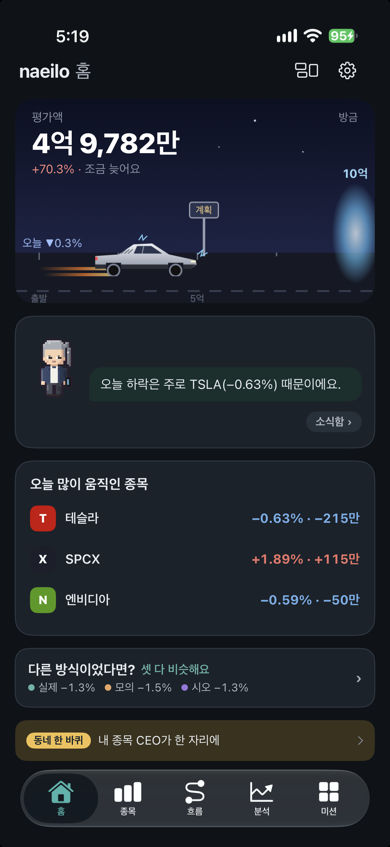
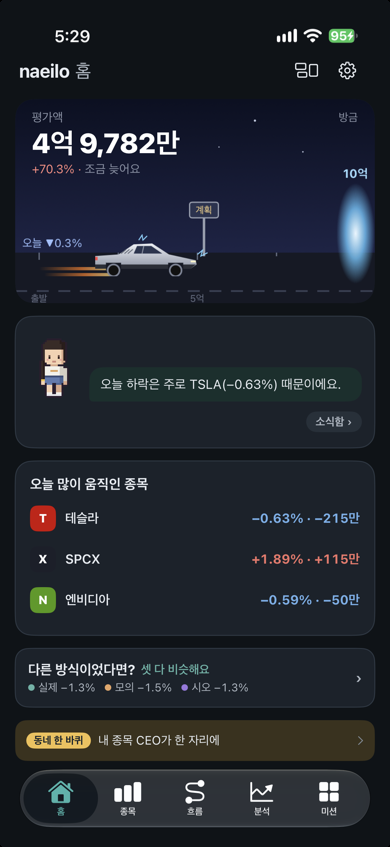
소개 페이지: 홈 스크린샷을 수아가 말하는 화면으로 (#327)
Claude-Session: https://claude.ai/code/session_01Qiv9He1TXkPcaZsQfLfxrY

Changed region(s): [[0.8615, 0.2149, 0.9846, 0.3377], [0.0923, 0.3991, 0.1846, 0.4911], [0.1231, 0.0307, 0.2462, 0.0614]]

diff --git a/index.html b/index.html
@@ -97,7 +97,7 @@
     <h2>앱을 열면, 인물이 먼저 말을 걸어요</h2>
     <p class="muted">세리·시오·선배·이르·수아가 오늘 숫자를 전해요 · 매매 추천 아님</p>
     <div class="rail">
-      <figure><div class="phone"><picture><source srcset="img/app-home-dark.png?v=7" media="(prefers-color-scheme: dark)"><img src="img/app-home.png?v=7" alt="naeilo 앱 홈 화면. 평가액 4억 9,782만, 오늘 하락 이유를 전하는 인물의 한마디와 많이 움직인 종목" loading="lazy"></picture></div><figcaption>홈: 오늘 숫자와 한마디</figcaption></figure>
+      <figure><div class="phone"><picture><source srcset="img/app-home-dark.png?v=8" media="(prefers-color-scheme: dark)"><img src="img/app-home.png?v=8" alt="naeilo 앱 홈 화면. 평가액 4억 9,782만, 오늘 하락 이유를 전하는 인물의 한마디와 많이 움직인 종목" loading="lazy"></picture></div><figcaption>홈: 오늘 숫자와 한마디</figcaption></figure>
       <figure><div class="phone"><picture><source srcset="img/app-stocks-dark.png?v=2" media="(prefers-color-scheme: dark)"><img src="img/app-stocks.png?v=2" alt="종목 화면. 오늘 −149만 원, 1개월 평가액 그래프와 테슬라·엔비디아·SGOV·SPCX 목록" loading="lazy"></picture></div><figcaption>종목: 내 종목을 한눈에</figcaption></figure>
       <figure><div class="phone"><picture><source srcset="img/app-flow-dark.png?v=3" media="(prefers-color-scheme: dark)"><img src="img/app-flow.png?v=3" alt="흐름 화면. 테슬라 일봉 그래프 위에 더블탑·플래그·더블바텀 패턴 이름표와 크고 작은 흐름 띠" loading="lazy"></picture></div><figcaption>흐름: 추세·패턴을 그래프로</figcaption></figure>
       <figure><div class="phone"><picture><source srcset="img/app-analysis-dark.png?v=2" media="(prefers-color-scheme: dark)"><img src="img/app-analysis.png?v=2" alt="분석 화면. 10억 목표 가능성 33%, 끌어내리는 힘과 끌어올리는 힘, 언제 흔들릴지 보여 주는 그래프" loading="lazy"></picture></div><figcaption>분석: 목표까지 가능성과 이유</figcaption></figure>
